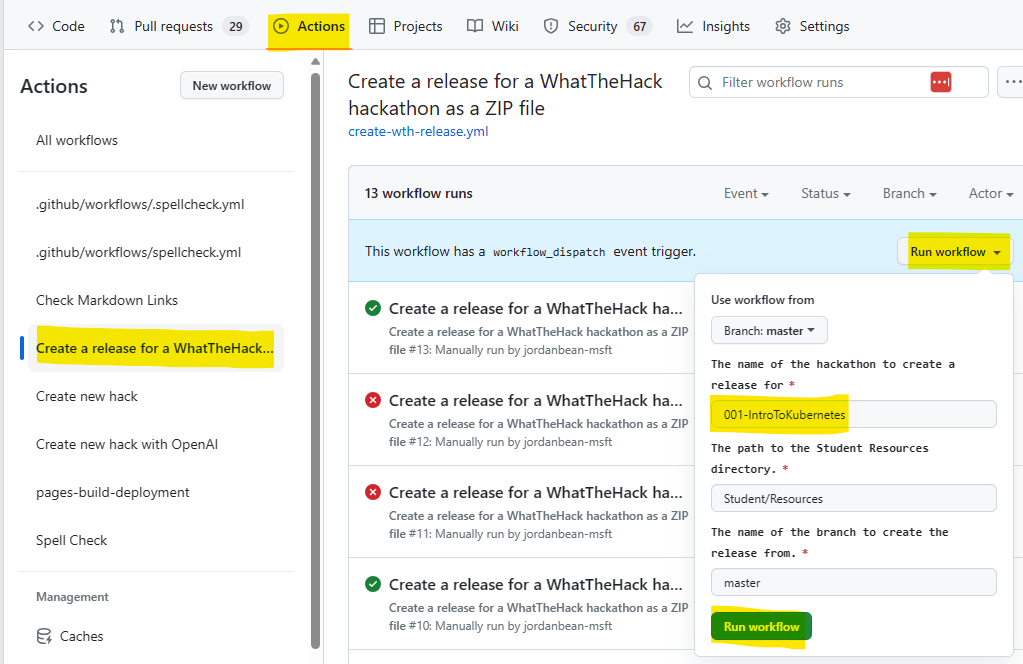
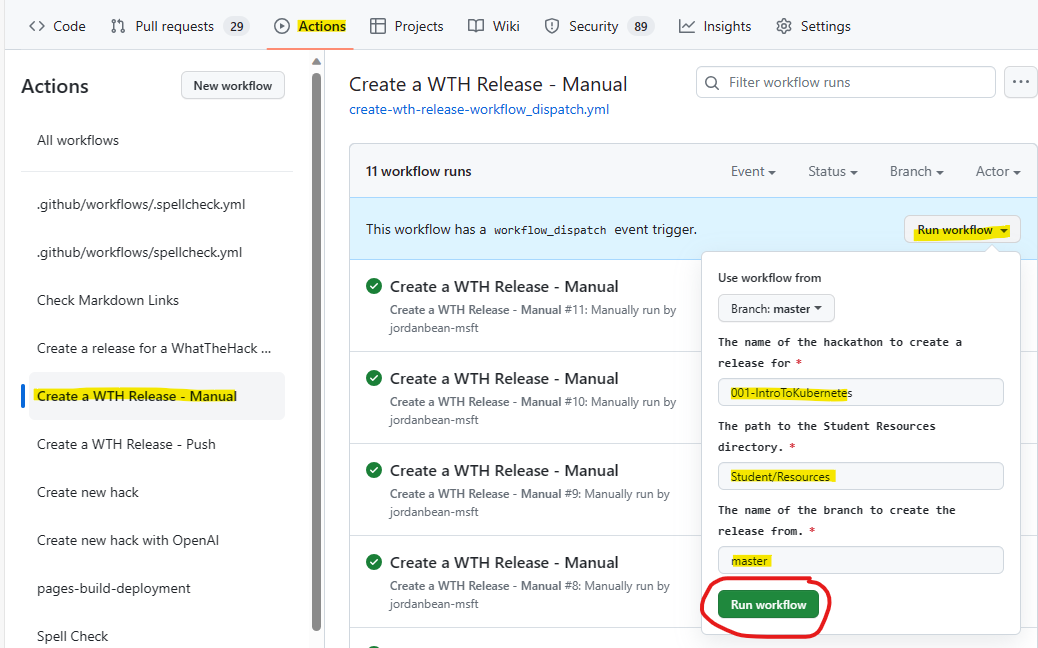
releaser

diff --git a/000-HowToHack/WTH-HowToHostAHack.md b/000-HowToHack/WTH-HowToHostAHack.md
@@ -204,7 +204,11 @@ You should also upload both the Event Kickoff presentation and any lecture prese
 
 ##### Student Resources export tool
 
-You can use the **Create a release for a WhatTheHack hackathon** GitHub Action to make it easier to export just the `Student/Resources` directory as a ZIP file. This will create a release in the repo with the ZIP file as an asset. You can then download the ZIP file and upload it to the General channel's Files tab.
+Many hacks will already have a GitHub Release ZIP file which includes the hack's `Student/Resources` directory. You can use this ZIP file directly if you don't need to make any changes to the hack (a GitHub Action will create this ZIP file on each push to the `master` branch, so the ZIP file should be up-to-date with the latest changes).
+
+![releases-resources-zip-file](images/releases-resources-zip-file.png)
+
+If the ZIP file doesn't exist or you need to make changes to the content in the repo, you can use the **Create a WTH Release - Manual** GitHub Action to make it easier to export just the `Student/Resources` directory as a ZIP file. This will create a release in the repo with the ZIP file as an asset. You can then download the ZIP file and upload it to the General channel's Files tab.
 
 Here are the steps to use the tool to export the Student Resources:
 
@@ -226,8 +230,6 @@ Here are the steps to use the tool to export the Student Resources:
 1. Click on the release that was created by the workflow.
 1. Expand the **Assets** section.
 1. Click on the **Resources.zip** file to download it.
-
-   ![releases-resources-zip-file](images/releases-resources-zip-file.png)
 
 #### Shared Tips/Wiki (Optional)
 
